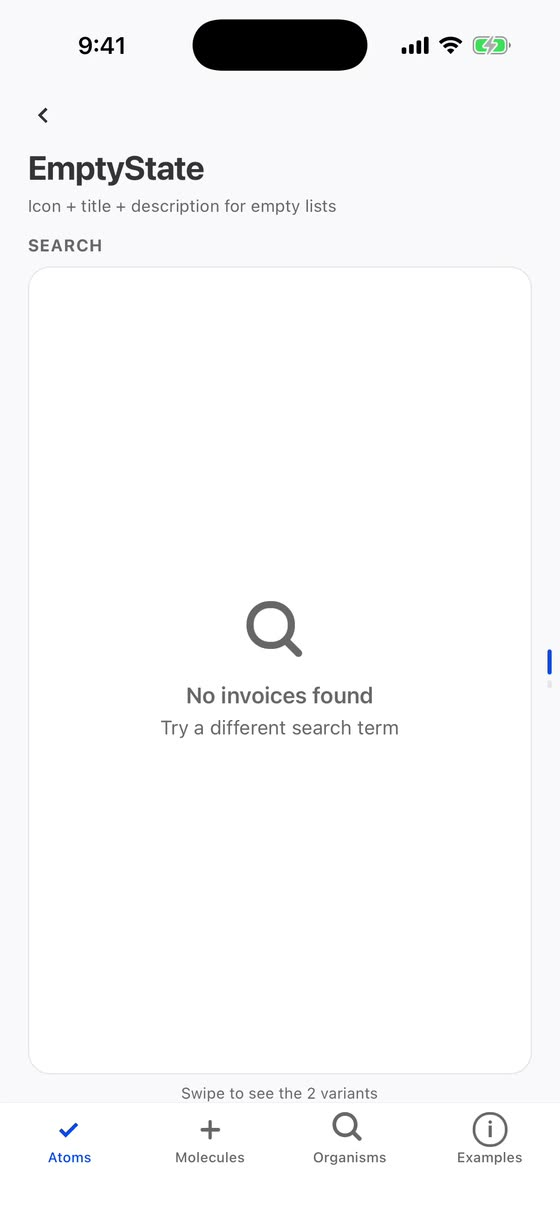
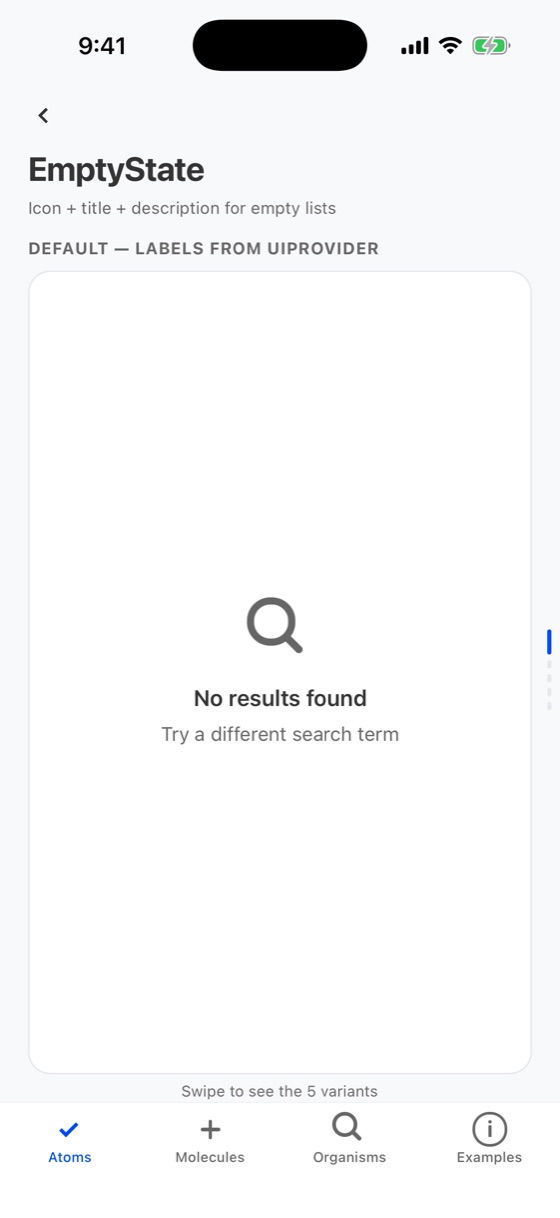
docs(empty-state): variant stills, Spanish props, action, changelog

diff --git a/demos/EmptyState.demo.tsx b/demos/EmptyState.demo.tsx
@@ -1,12 +1,46 @@
 import React from 'react';
-import { EmptyState } from 'orn-ui';
+import { Avatar, EmptyState } from 'orn-ui';
 import { VariantList, type VariantDef } from './VariantList';
 
 export function EmptyStateDemo() {
   // #region demo
   const variants: VariantDef[] = [
-    { label: 'Search', content: <EmptyState title="No invoices found" description="Try a different search term" iconName="search" /> },
-    { label: 'Custom icon', content: <EmptyState title="No clients yet" description="Add your first client to get started" iconName="info" /> },
+    { label: 'default — labels from UIProvider', content: <EmptyState /> },
+    {
+      label: 'search',
+      content: <EmptyState title="No invoices found" description="Try a different search term" iconName="search" />,
+    },
+    {
+      label: 'action — the next step as a button',
+      content: (
+        <EmptyState
+          title="No clients yet"
+          description="Add your first client to get started"
+          iconName="user"
+          action={{ label: 'Add client', onPress: () => {} }}
+        />
+      ),
+    },
+    {
+      label: 'icon — any node in place of the icon',
+      content: (
+        <EmptyState
+          title="Your team is empty"
+          description="Invite people to share invoices and clients"
+          icon={<Avatar name="Acme Studio" size={64} />}
+        />
+      ),
+    },
+    {
+      label: 'long description — wraps centered',
+      content: (
+        <EmptyState
+          title="Nothing scheduled"
+          description="Payments you schedule show up here with their due date, amount and the client they belong to."
+          iconName="info"
+        />
+      ),
+    },
   ];
   return <VariantList variants={variants} />;
   // #endregion demo

diff --git a/src/data/changelog.ts b/src/data/changelog.ts
@@ -178,6 +178,19 @@ export const releases: Release[] = [
             },
           ],
         },
+        {
+          component: 'EmptyState',
+          items: [
+            {
+              en: '`action={{ label, onPress, variant? }}` shows the next step as a button under the text; it stays focusable on its own.',
+              es: '`action={{ label, onPress, variant? }}` muestra el siguiente paso como botón debajo del texto; se puede enfocar por separado.',
+            },
+            {
+              en: '`testID`, and `style` accepts style arrays.',
+              es: '`testID`, y `style` acepta arrays de estilos.',
+            },
+          ],
+        },
       ],
       fixed: [
         {
@@ -466,6 +479,19 @@ export const releases: Release[] = [
             {
               en: 'Stronger placeholder color so it stands out from cards: `#e3e5e8` in light (was `#eceef1`), `#2c2c30` in dark (was `#26262a`).',
               es: 'Color más marcado para que se distinga de las tarjetas: `#e3e5e8` en claro (antes `#eceef1`) y `#2c2c30` en oscuro (antes `#26262a`).',
+            },
+          ],
+        },
+        {
+          component: 'EmptyState',
+          items: [
+            {
+              en: 'The title uses the main text color, so it stands apart from the description.',
+              es: 'El título usa el color de texto principal, así se distingue de la descripción.',
+            },
+            {
+              en: 'Spacing and line heights come from tokens: 12pt between icon and title, 4pt between title and description.',
+              es: 'Espaciado e interlineado salen de los tokens: 12pt entre ícono y título, 4pt entre título y descripción.',
             },
           ],
         },
